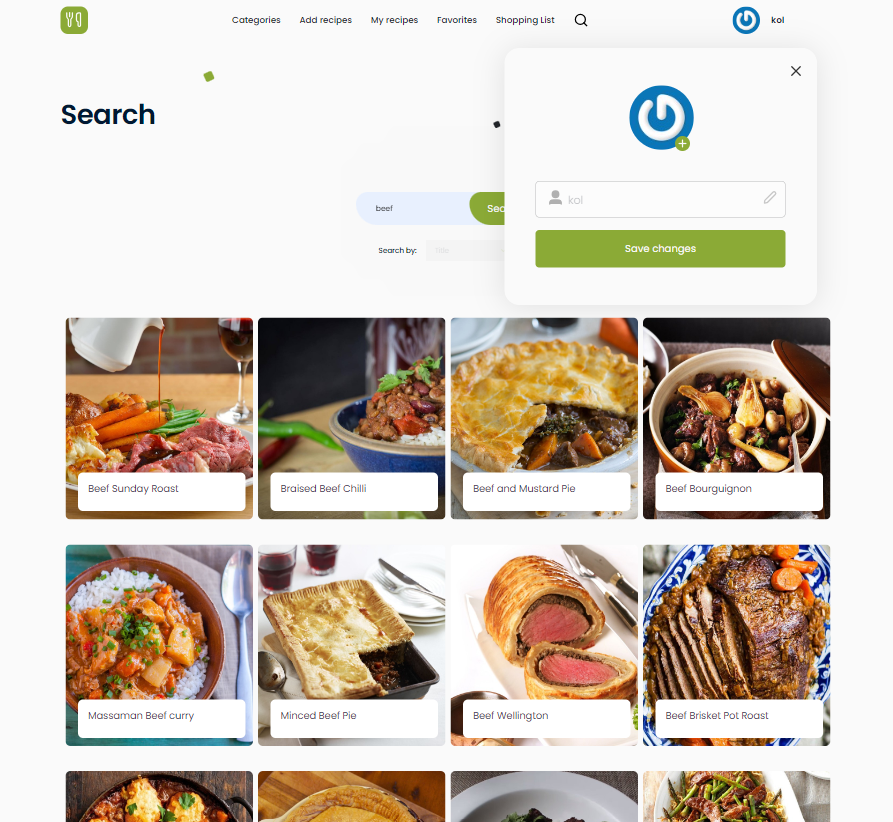
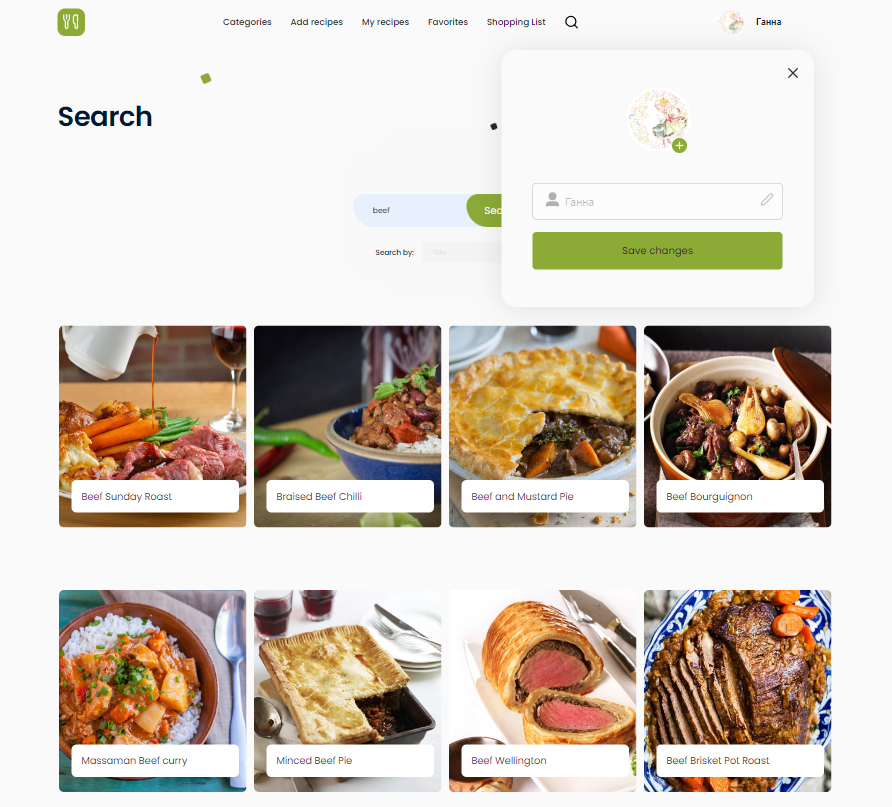
final fixes

diff --git a/src/pages/SearchPage/searchContainer.module.css b/src/pages/SearchPage/searchContainer.module.css
@@ -1,69 +1,69 @@
-.tabPhoto{
-            display: none;
-        }
-        .paginationWrap{
-            margin: 0 auto;
-        }
-        .text{
-            font-family: "Poppins_Medium", sans-serif;
-           
-        }
-        .center{
-            text-align: center;
-        }
+.tabPhoto {
+  display: none;
+}
+.paginationWrap {
+  margin: 0 auto;
+}
+.text {
+  font-family: 'Poppins_Medium', sans-serif;
+}
+.center {
+  text-align: center;
+}
+
+.mobPhoto {
+  margin: 0 auto;
+}
+
 @media screen and (min-width: 375px) {
-        .container{
-            padding: 50px 16px 0 16px; 
-            position: relative;
-            
-        }
-        .listContainer{
-            padding: 10px 16px 0 16px;
-            max-width: 375px;
-            margin: 0 auto;
-        }
-            .mobPhoto{
-            margin: 0 auto;
-        }
-        .tabPhoto{
-            display: none;
-        }
-    }
-    @media screen and (min-width: 768px) {
-        .container{
-          padding: 72px 32px 0 32px;
-        }
-          .mobPhoto{
-            display: none;
-          
-        }
-          .tabPhoto{
-            display: block;
-            margin: 0 auto;
-        }
-         .listContainer{
-            padding: 8px 32px 0 32px;
-            max-width: 768px;
-            margin: 0 auto;
-        }
-    }
-  
-    @media screen and (min-width: 1440px) {
-       .container{  
-           padding: 102px 100px 0 100px;
-        }
-          .listContainer{
-            padding: 58px 100px 0 100px;
-            max-width: 1440px;
-            margin: 0 auto;
-        }
-    }
-        .paginationWrap{
-        width: 275px;
-        height: 51px;
-        border-radius: 26px;
-        background: #FAFAFA;
-        box-shadow: 0px 4px 4px 0px rgba(135, 135, 135, 0.20);
-        display: flex;
-        align-items: center;
-    }
+  .container {
+    padding: 50px 16px 0 16px;
+    position: relative;
+  }
+  .listContainer {
+    padding: 10px 16px 0 16px;
+    max-width: 375px;
+    margin: 0 auto;
+  }
+
+  .tabPhoto {
+    display: none;
+  }
+}
+@media screen and (min-width: 768px) {
+  .container {
+    padding: 72px 32px 0 32px;
+  }
+  .mobPhoto {
+    display: none;
+  }
+  .tabPhoto {
+    display: block;
+    margin: 0 auto;
+  }
+  .listContainer {
+    padding: 8px 32px 0 32px;
+    max-width: 768px;
+    margin: 0 auto;
+  }
+}
+
+@media screen and (min-width: 1440px) {
+  .container {
+    padding: 102px 100px 0 100px;
+  }
+  .listContainer {
+    padding: 58px 100px 0 100px;
+    max-width: 1440px;
+    margin: 0 auto;
+  }
+}
+.paginationWrap {
+  width: 275px;
+  height: 51px;
+  border-radius: 26px;
+  background: #fafafa;
+  box-shadow: 0px 4px 4px 0px rgba(135, 135, 135, 0.2);
+  display: flex;
+  align-items: center;
+}

diff --git a/src/pages/RegisterPage/RegisterPage.jsx b/src/pages/RegisterPage/RegisterPage.jsx
@@ -12,7 +12,6 @@ import { useEffect } from 'react';
 import { useNavigate } from 'react-router-dom';
 import Loader from 'components/Loader';
 
-
 const RegisterPage = () => {
   const error = useSelector(selectAuthError);
   const message = useSelector(selectMessage);
@@ -22,12 +21,13 @@ const RegisterPage = () => {
 
   useEffect(() => {
     if (error && error !== 'Unable to fetch user') {
-      Notify.failure(error);
+      // Notify.failure(error);
+      error !== 'Request failed with status code 409' && Notify.failure(error);
       dispatch(clearErrorMessage());
     }
 
-    if (message === 'Verification letter was send to your email') {
-      Notify.success('Verification letter was send to your email');
+    if (message === 'Verification letter was sent to your email') {
+      Notify.success('Verification letter was sent to your email');
       dispatch(clearMessage());
       navigate('/signin');
     }
@@ -36,6 +36,10 @@ const RegisterPage = () => {
       dispatch(clearMessage());
     };
   }, [dispatch, error, message, navigate]);
+
+  if (error && error.includes('409')) {
+    Notify.failure('Email is already in use');
+  }
 
   return (
     <>

diff --git a/src/pages/MainPage/MainPage.jsx b/src/pages/MainPage/MainPage.jsx
@@ -1,22 +1,20 @@
-import { useDispatch } from 'react-redux';
+import { useDispatch, useSelector } from 'react-redux';
 import { Main } from '../../components/Main/Main';
 import css from './MainPage.module.css';
 // import { selectIsRefreshing } from 'redux/auth/selectors';
 import { useEffect } from 'react';
 import { fetchMainPage } from '../../redux/recipes/operations';
 import { PreviewCategories } from 'components/Main/PreviewCategories/PreviewCategories';
+import { selectIsRefreshing } from 'redux/auth/selectors';
 
 const MainPage = () => {
   const dispatch = useDispatch();
 
-  // const isRefresh = useSelector(selectIsRefreshing);
+  const isRefresh = useSelector(selectIsRefreshing);
 
-  // useEffect(() => {
-  //   dispatch(fetchMainPage());
-  // }, [dispatch, isRefresh]);
   useEffect(() => {
     dispatch(fetchMainPage());
-  }, [dispatch]);
+  }, [dispatch, isRefresh]);
 
   return (
     <>

diff --git a/src/pages/SignInPage/SignInPage.jsx b/src/pages/SignInPage/SignInPage.jsx
@@ -10,6 +10,7 @@ import Loader from 'components/Loader';
 const SignInPage = () => {
   const error = useSelector(selectAuthError);
   const isLoading = useSelector(selectIsLoading);
+  console.log('error :>> ', error);
 
   const dispatch = useDispatch();
 
@@ -18,16 +19,18 @@ const SignInPage = () => {
       error !== 'Request failed with status code 401' && Notify.failure(error);
       dispatch(clearErrorMessage());
     }
-
     return () => {
       dispatch(clearErrorMessage());
     };
   }, [dispatch, error, isLoading]);
 
+  if (error && error.includes('401')) {
+    Notify.failure('Email or password is wrong');
+  }
+
   return (
     <>
       {isLoading && <Loader />}
-      {/* <LoadingNotice /> */}
       <LogInForm />
     </>
   );

diff --git a/src/components/header/UserProfile/UserInfoModal/UserInfoModal.module.css b/src/components/header/UserProfile/UserInfoModal/UserInfoModal.module.css
@@ -3,8 +3,12 @@
   display: flex;
   flex-direction: column;
   gap: 20px;
-  top: 200px;
-  right: 35px;
+  top: 55px;
+  right: -5px;
+
+  /* top: 50%;
+  left: 50%;
+  transform: translate(-50%, 50%); */
   z-index: 1111;
   padding: 32px 24px;
   width: 330px;
@@ -140,12 +144,19 @@ input[type='file']::file-selector-button {
   }
 }
 
+@media screen and (min-width: 375px) {
+  .container {
+    right: 26px;
+  }
+}
+
 @media screen and (min-width: 768px) {
   .container {
     width: 480px;
     padding: 50px 40px;
     top: 80px;
     right: 120px;
+    /* transform: translate(0, 0); */
   }
   .cross {
     width: 24px;

diff --git a/src/components/Footer/Footer/Footer.js b/src/components/Footer/Footer/Footer.js
@@ -1,12 +1,14 @@
 import { useSelector } from 'react-redux';
 import { Navigation } from '../Navigation/Navigation';
 import css from './Footer.module.css';
-import { selectIsLoggedIn } from 'redux/auth/selectors';
+import { selectIsLoggedIn, selectIsRefreshing } from 'redux/auth/selectors';
 
 export const Footer = () => {
   const isLoggedIn = useSelector(selectIsLoggedIn);
+  const isRefreshing = useSelector(selectIsRefreshing);
   return (
-    isLoggedIn && (
+    isLoggedIn &&
+    !isRefreshing && (
       <footer className={css.footer}>
         <div className={css.container}>
           <Navigation />

diff --git a/src/components/SignUpForm/SignUpForm.module.css b/src/components/SignUpForm/SignUpForm.module.css
@@ -305,7 +305,8 @@
     background-image: url(../../images/login/woman_desk_1x.png),
       url(../../images/login/reg-bgc_desk_1x.png);
     background-position: top 115px left 113px, bottom;
-    background-size: 532px 468px, 100% 42%;
+    /* background-size: 532px 468px, 100% 42%; */
+    background-size: 532px 468px, 100% calc(100% - 444px);
   }
 
   @media screen and (min-device-pixel-ratio: 2),

diff --git a/src/pages/WelcomePage/WelcomePage.module.css b/src/pages/WelcomePage/WelcomePage.module.css
@@ -156,9 +156,13 @@
     background-position: center;
   }
   .Welcome__container {
-    padding: 214px 450px 216px 450px;
+    /* padding: 214px 450px 216px 450px; */
 
-    width: 1440px;
+    /* width: 1440px; */
+    width: 540px;
+    padding-left: 0;
+    padding-right: 0;
+    padding-top: 32vh;
   }
 
   @media screen and (min-device-pixel-ratio: 2),

diff --git a/src/components/ShopingList/ShipongList.module.css b/src/components/ShopingList/ShipongList.module.css
@@ -21,8 +21,24 @@
 .deleteBtnIcon {
   color: #333333;
 }
+
+@media screen and (min-width: 375px) {
+  .list {
+   
+    width: 343px;
+  }
+}
+
 @media screen and (min-width: 768px) {
   .list {
     gap: 44px;
+    width: 704px;
+  }
+}
+
+@media screen and (min-width: 1440px) {
+  .list {
+    
+    width: 1160px;
   }
 }

diff --git a/src/pages/MainPage/MainPage.module.css b/src/pages/MainPage/MainPage.module.css
@@ -152,7 +152,8 @@
   .container {
     width: 1440px;
     height: 800px;
-    margin: 0 auto;
+    /* margin: 0 auto; */
+    margin-bottom: -50px;
     background-image: url('../../../src/images/bgc/salt_desk_1x.png');
     background-position: 700px 100px;
     background-size: 578px;

diff --git a/src/components/MyRecipesItem/MyRecipesItem.module.css b/src/components/MyRecipesItem/MyRecipesItem.module.css
@@ -19,6 +19,7 @@
     display: flex;
     gap: 24px;
     padding: 28px 24px;
+    max-width: 768px;
   }
   .card_container:not(:last-child) {
     margin-bottom: 40px;
@@ -30,6 +31,7 @@
 
     gap: 54px;
     padding: 40px;
+    max-width: 1440px;
   }
 }
 

diff --git a/README.md b/README.md
@@ -1,9 +1,7 @@
 # SoYummy - Your Ultimate Web Cookbook
 
-![Alt text](./assets/image-14.png)
-
 <p align="center">
-      <img src="https://i.pinimg.com/originals/86/5d/21/865d21c9cd8cf1805ee4bc83e1bac4fa.png" width="1010">
+  <img src="./assets/image-14.png" alt="Alt text" width="1010">
 </p>
 
 SoYummy is a feature-rich web cookbook application. It allows you to easily
@@ -158,19 +156,13 @@ To use this project locally, please follow these steps:
 
 ## Our team
 
-![Alt text](./assets/image-2.png) 
-![Alt text](./assets/image.png)
+![Alt text](./assets/image-2.png) ![Alt text](./assets/image.png)
 ![Alt text](./assets/image-1.png)
 
 ## Screenshots
 
-![Alt text](./assets/image-12.png) 
-![Alt text](./assets/image-13.png)
-![Alt text](./assets/image-4.png) 
-![Alt text](./assets/image-11.png)
-![Alt text](./assets/image-5.png) 
-![Alt text](./assets/image-6.png)
-![Alt text](./assets/image-7.png) 
-![Alt text](./assets/image-8.png)
-![Alt text](./assets/image-9.png) 
+![Alt text](./assets/image-12.png) ![Alt text](./assets/image-13.png)
+![Alt text](./assets/image-4.png) ![Alt text](./assets/image-5.png)
+![Alt text](./assets/image-6.png) ![Alt text](./assets/image-7.png)
+![Alt text](./assets/image-8.png) ![Alt text](./assets/image-9.png)
 ![Alt text](./assets/image-10.png)
